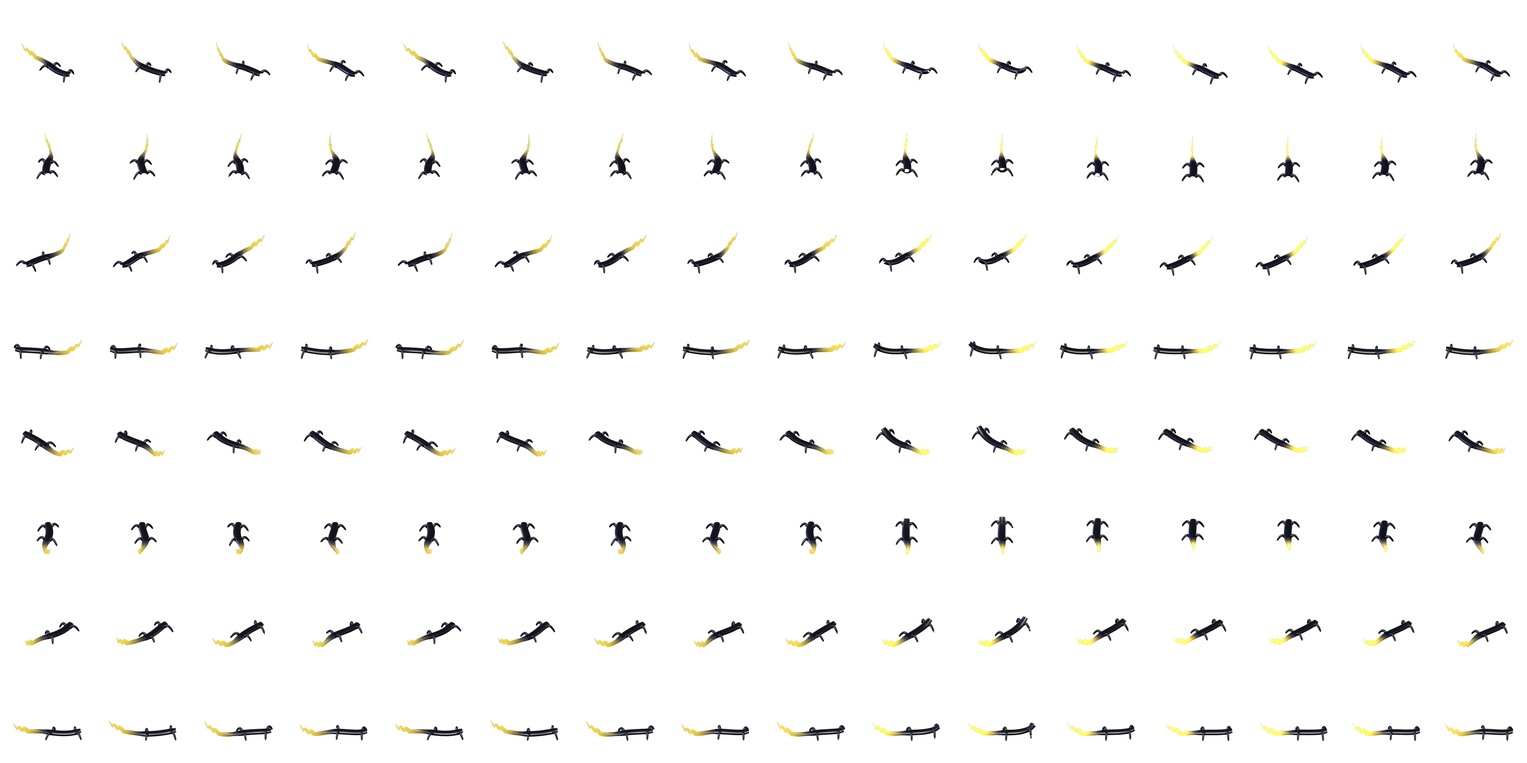
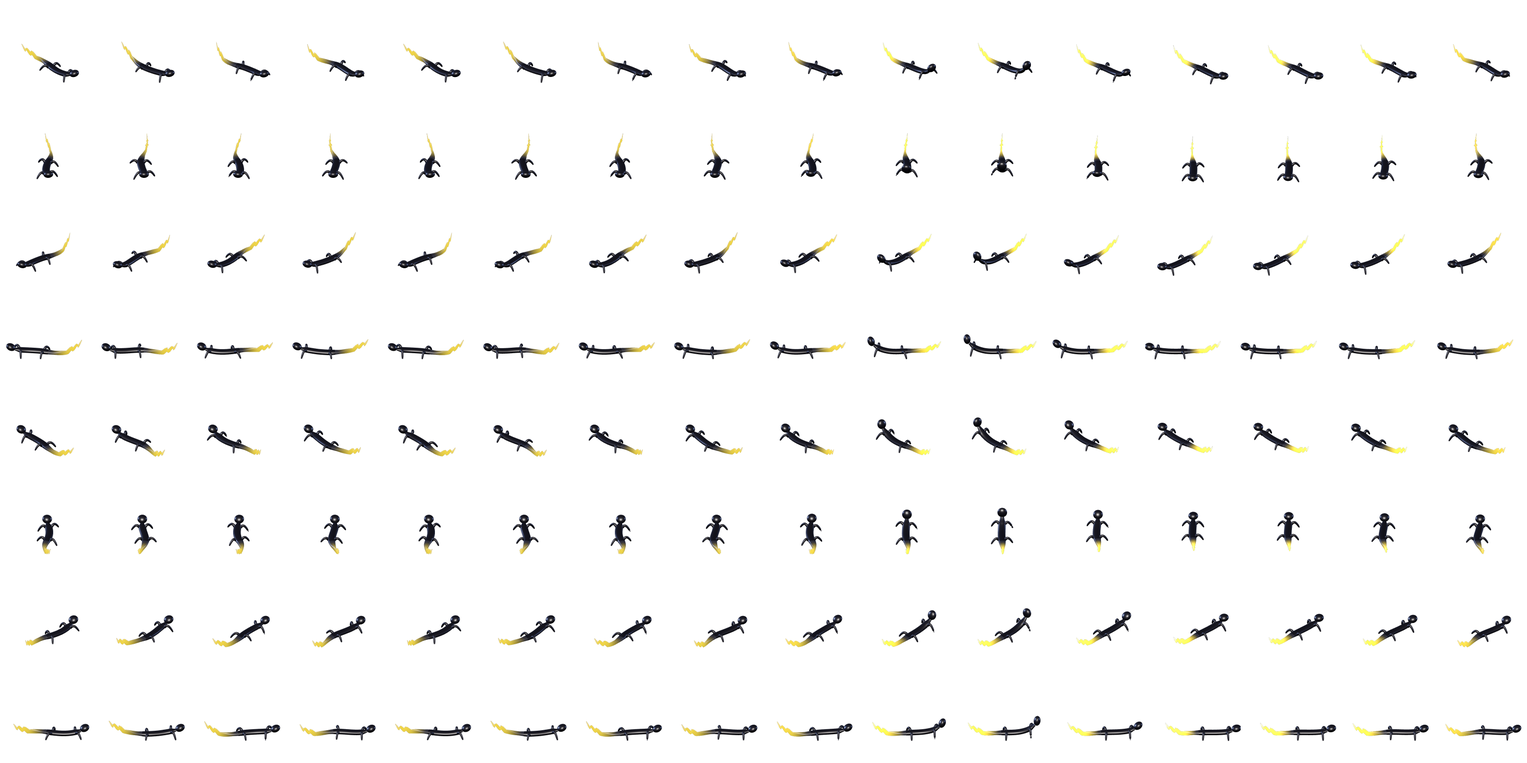
Build 2026-11-08c: the Electro Skink's head shows
The owner on build b: "He's supposed to have a small head, but it looks
like he doesn't have a head at all." A bug hid it: since build a the
slither asked the spine a little ahead of the neck, and the wave's power
of a negative number was NaN, so the head mesh was never drawn. The
spine now clamps its position first. The head is also a little rounder
and taller than the flat body, on a pinched neck and lifted slightly.
Re-baked img/evo/electroskink.png and the Bible's picture; stamped.

Claude-Session: https://claude.ai/code/session_0115DZYYhipQqSk6LHvQcEfz

diff --git a/game.html b/game.html
@@ -9,18 +9,18 @@
     <!-- THE PROPS SHEETS THE START WAITS FOR (js/init.js, docs/STARTUP.md) begin to download with the page, alongside the scripts, instead of once the world is built: measured on a slow link (2x CPU, 60 ms, 15 Mbit/s), the start is about half a second sooner (4.1 s to 3.5 s for a new player, 6.4 s to 5.9 s for a returning one).
          They are the addresses the loader asks for (img/props/<family>.png, with the build stamp), so its own requests are answered from these; the stamp changes with the build (tests/startup.js checks both).
          Not here: the player's sheet (the website's background, ?attract, draws no player), the eggs and the evolved forms (which of them the first picture draws depends on the saved game): the start asks for those itself. -->
-    <link rel="preload" as="image" href="img/props/crystalpad.png?v=2026-11-08b">
-    <link rel="preload" as="image" href="img/props/tech.png?v=2026-11-08b">
-    <link rel="preload" as="image" href="img/props/lab.png?v=2026-11-08b">
-    <link rel="preload" as="image" href="img/props/office.png?v=2026-11-08b">
-    <link rel="preload" as="image" href="img/props/lounge.png?v=2026-11-08b">
-    <link rel="preload" as="image" href="img/props/cargo.png?v=2026-11-08b">
-    <link rel="preload" as="image" href="img/props/cold.png?v=2026-11-08b">
-    <link rel="preload" as="image" href="img/props/plant.png?v=2026-11-08b">
-    <link rel="preload" as="image" href="img/props/sentry.png?v=2026-11-08b">
-    <link rel="preload" as="image" href="img/props/tank.png?v=2026-11-08b">
-    <link rel="preload" as="image" href="img/props/truck.png?v=2026-11-08b">
-    <link rel="preload" as="image" href="img/props/bridge.png?v=2026-11-08b">
+    <link rel="preload" as="image" href="img/props/crystalpad.png?v=2026-11-08c">
+    <link rel="preload" as="image" href="img/props/tech.png?v=2026-11-08c">
+    <link rel="preload" as="image" href="img/props/lab.png?v=2026-11-08c">
+    <link rel="preload" as="image" href="img/props/office.png?v=2026-11-08c">
+    <link rel="preload" as="image" href="img/props/lounge.png?v=2026-11-08c">
+    <link rel="preload" as="image" href="img/props/cargo.png?v=2026-11-08c">
+    <link rel="preload" as="image" href="img/props/cold.png?v=2026-11-08c">
+    <link rel="preload" as="image" href="img/props/plant.png?v=2026-11-08c">
+    <link rel="preload" as="image" href="img/props/sentry.png?v=2026-11-08c">
+    <link rel="preload" as="image" href="img/props/tank.png?v=2026-11-08c">
+    <link rel="preload" as="image" href="img/props/truck.png?v=2026-11-08c">
+    <link rel="preload" as="image" href="img/props/bridge.png?v=2026-11-08c">
     <style>
         body { margin: 0; background: #000; overflow: hidden; touch-action: none; font-family: 'Courier New', monospace; }
         canvas { display: block; width: 100vw; height: 100vh; height: 100dvh; touch-action: none; -webkit-user-select: none; -webkit-touch-callout: none; }
@@ -610,7 +610,7 @@
     #cardPick .cp-tile.empty.off > .cp-blank { opacity: 0.5; }
     :is(#cardPick, #cardEquip) .cp-note { font: 700 11px monospace; color: #8aa0c8; letter-spacing: 0.05em; text-align: center; padding-top: 4px; }
     @media (max-width: 700px) { #cardPick .cp-title { font-size: 18px; } #cardPick .cp-arrow { display: none; } #cardPick .cp-rail { padding: 16px 8px 8px; } }
-    /* EQUIP NOW (js/cardsui.js equipNowOpen; build 2026-11-08b): over the CARDS screen (and a pack's reveal), the followers a card fits in a row that slides, each with its slots: the card picker's box, teal */
+    /* EQUIP NOW (js/cardsui.js equipNowOpen; build 2026-11-08c): over the CARDS screen (and a pack's reveal), the followers a card fits in a row that slides, each with its slots: the card picker's box, teal */
     #cardEquip { z-index: 82; }
     #cardEquip .cp-box { box-shadow: 0 0 30px rgba(0,0,0,0.6), 0 0 18px rgba(25,230,193,0.22); } #cardEquip .cp-title { text-shadow: 0 0 12px rgba(25,230,193,0.35); }
     #cardEquip .cp-head { justify-content: flex-start; align-items: center; } #cardEquip .cp-hl { flex: 1; min-width: 0; } #cardEquip .ce-card { flex: none; scroll-snap-align: none; }
@@ -1051,7 +1051,7 @@
     :is(#squadBar, #ccSquadBox) .sb-xp u { display: block; height: 100%; width: 0; background: #9ca8ff; text-decoration: none; transition: width 0.3s; }
     :is(#squadBar, #ccSquadBox) .sb-slot.xp-gain .sb-xp u { background: #e4e8ff; box-shadow: 0 0 8px #9ca8ff; }
     :is(#squadBar, #ccSquadBox) .sb-slot.evo-soon .sb-xp u { animation: sb-evo-soon 1.2s ease-in-out infinite; } @keyframes sb-evo-soon { 50% { background: #e4e8ff; box-shadow: 0 0 8px #9ca8ff; } }
-    /* a card's ULTIMATE (js/party.js _partyUltBar; build 2026-11-08b, the owner: "more visible ultimate bar on followers and access to use them"): a meter under the XP in its element's colour, ULT and the charge in it;
+    /* a card's ULTIMATE (js/party.js _partyUltBar; build 2026-11-08c, the owner: "more visible ultimate bar on followers and access to use them"): a meter under the XP in its element's colour, ULT and the charge in it;
        full, gold, glowing and pulsing, ULTIMATE ▲ and TAP: a tap on it fires the Ultimate (js/elements.js followerUltFire) */
     :is(#squadBar, #ccSquadBox) .sb-ult { position: relative; display: block; box-sizing: border-box; width: 100%; height: 8px; margin: 2px 0 0; padding: 0; border: 0; background: rgba(255,255,255,0.12); cursor: default; font: inherit; color: inherit; }
     :is(#squadBar, #ccSquadBox) .sb-ult[hidden] { display: none; }
@@ -1188,7 +1188,7 @@
     #ccRoot.carousel .cf-none { display: none; flex: 1; align-items: center; justify-content: center; text-align: center; font: 800 13px/1.5 monospace; letter-spacing: 0.06em; color: #8aa0c8; }
     #ccRoot.carousel .cf-card.none .cf-art, #ccRoot.carousel .cf-card.none .cf-txt { display: none; } #ccRoot.carousel .cf-card.none .cf-none { display: flex; }
     /* its settings, beside it */
-    #ccRoot.carousel .cc-side { width: auto; min-height: 0; padding: 0 4px 14px 0; gap: 6px; background: none; border: 0; box-shadow: none; clip-path: none; -webkit-mask-image: linear-gradient(180deg, #000 calc(100% - 14px), transparent); mask-image: linear-gradient(180deg, #000 calc(100% - 14px), transparent); }   /* (a long list of traits fades out at the foot: it scrolls. The settings are slimmer since build 2026-11-08b: every follower has an ATTACK setting now, and the five settings and RE-ROLL · INFO · EXILE still stand in view at 1024 × 768) */
+    #ccRoot.carousel .cc-side { width: auto; min-height: 0; padding: 0 4px 14px 0; gap: 6px; background: none; border: 0; box-shadow: none; clip-path: none; -webkit-mask-image: linear-gradient(180deg, #000 calc(100% - 14px), transparent); mask-image: linear-gradient(180deg, #000 calc(100% - 14px), transparent); }   /* (a long list of traits fades out at the foot: it scrolls. The settings are slimmer since build 2026-11-08c: every follower has an ATTACK setting now, and the five settings and RE-ROLL · INFO · EXILE still stand in view at 1024 × 768) */
     #ccRoot.carousel .cc-dd { display: grid; grid-template-columns: minmax(0, 1fr) auto; grid-template-areas: "k a" "v a"; align-items: center; row-gap: 4px; position: relative; isolation: isolate; flex: none; min-height: 44px; padding: 0 16px; border: 0; background: none; box-shadow: none; text-shadow: 0 1px 6px rgba(0,0,0,0.7); }
     #ccRoot.carousel .cc-dd::before { content: ""; position: absolute; inset: 0; z-index: -1; transform: skewX(-9deg); background: linear-gradient(180deg, #101a36, #05070f); border: 2px solid var(--c); box-shadow: 0 0 12px -2px var(--c), inset 0 0 14px rgba(0,0,0,0.5); }
     #ccRoot.carousel .cc-dd.open { background: none; box-shadow: none; } #ccRoot.carousel .cc-dd.open::before { background: color-mix(in srgb, var(--c) 20%, #05070f); }
@@ -2006,12 +2006,12 @@ function _showError(msg) {
 // Script files that failed to download. A missing file raises no error of its
 // own — only the "Can't find variable" from whatever needed it — so the load
 // failure is caught here, on its way down (capture phase).
-// THE BUILD. Every script URL below carries ?v=2026-11-08b, so a new deploy
+// THE BUILD. Every script URL below carries ?v=2026-11-08c, so a new deploy
 // fetches a matching set: REPORTED, an iPad ran the new js/indexart.js against
 // an old cached js/config.js ("Attempted to assign to readonly property").
 // Change this, the ?v= on every script tag and BUILD_VERSION in js/config.js
 // together (tests/boot.js checks they agree).
-window.__PAGE_BUILD = "2026-11-08b";
+window.__PAGE_BUILD = "2026-11-08c";
 window.__bootFailed = [];
 window.addEventListener("error", function (e) {
     var t = e && e.target;
@@ -2047,92 +2047,92 @@ if (!CanvasRenderingContext2D.prototype.roundRect) {
 </script>
 
 <!-- Game scripts — load order matters (globals first, logic last) -->
-<script src="js/config.js?v=2026-11-08b"></script>
-<script src="js/icons.js?v=2026-11-08b"></script>
-<script src="js/uikit.js?v=2026-11-08b"></script>
-<script src="js/traits.js?v=2026-11-08b"></script>
-<script src="js/elements.js?v=2026-11-08b"></script>
-<script src="js/damage.js?v=2026-11-08b"></script>
-<script src="js/combat.js?v=2026-11-08b"></script>
-<script src="js/species.js?v=2026-11-08b"></script>
-<script src="js/levels.js?v=2026-11-08b"></script>
-<script src="js/status.js?v=2026-11-08b"></script>
-<script src="js/helpers.js?v=2026-11-08b"></script>
-<script src="js/predator.js?v=2026-11-08b"></script>
-<script src="js/abilities.js?v=2026-11-08b"></script>
-<script src="js/commands.js?v=2026-11-08b"></script>
-<script src="js/npc.js?v=2026-11-08b"></script>
-<script src="js/draw.js?v=2026-11-08b"></script>
-<script src="js/beetle3d.js?v=2026-11-08b"></script>
-<script src="js/bugs3d.js?v=2026-11-08b"></script>
-<script src="js/settings.js?v=2026-11-08b"></script>
-<script src="js/alarm.js?v=2026-11-08b"></script>
-<script src="js/drops.js?v=2026-11-08b"></script>
-<script src="js/clone.js?v=2026-11-08b"></script>
-<script src="js/bonds.js?v=2026-11-08b"></script>
-<script src="js/evolution.js?v=2026-11-08b"></script>
-<script src="js/cards.js?v=2026-11-08b"></script>
-<script src="js/cardart.js?v=2026-11-08b"></script>
-<script src="js/hdsprites.js?v=2026-11-08b"></script>
-<script src="js/firebombs.js?v=2026-11-08b"></script>
-<script src="js/moves.js?v=2026-11-08b"></script>
-<script src="js/hudgems.js?v=2026-11-08b"></script>
-<script src="js/commandcenter.js?v=2026-11-08b"></script>
-<script src="js/cardsui.js?v=2026-11-08b"></script>
-<script src="js/unitinfo.js?v=2026-11-08b"></script>
-<script src="js/infodex.js?v=2026-11-08b"></script>
-<script src="js/classes.js?v=2026-11-08b"></script>
-<script src="js/playergear.js?v=2026-11-08b"></script>
-<script src="js/inventory.js?v=2026-11-08b"></script>
-<script src="js/weapons.js?v=2026-11-08b"></script>
-<script src="js/mutator.js?v=2026-11-08b"></script>
-<script src="js/specimen.js?v=2026-11-08b"></script>
-<script src="js/serum.js?v=2026-11-08b"></script>
-<script src="js/potion.js?v=2026-11-08b"></script>
-<script src="js/technomancer.js?v=2026-11-08b"></script>
-<script src="js/playercards.js?v=2026-11-08b"></script>
-<script src="js/stations.js?v=2026-11-08b"></script>
-<script src="js/facilityportals.js?v=2026-11-08b"></script>
-<script src="js/tutorial.js?v=2026-11-08b"></script>
-<script src="js/dialogue.js?v=2026-11-08b"></script>
-<script src="js/questbox.js?v=2026-11-08b"></script>
-<script src="js/facilitymap.js?v=2026-11-08b"></script>
-<script src="js/facilitygrow.js?v=2026-11-08b"></script>
-<script src="js/facility.js?v=2026-11-08b"></script>
-<script src="js/attract.js?v=2026-11-08b"></script>
-<script src="js/facilitysave.js?v=2026-11-08b"></script>
-<script src="js/facilityplay.js?v=2026-11-08b"></script>
-<script src="js/facilitydecor.js?v=2026-11-08b"></script>
-<script src="js/propatlas.js?v=2026-11-08b"></script>
-<script src="js/propsprites.js?v=2026-11-08b"></script>
-<script src="js/facilitystyle.js?v=2026-11-08b"></script>
-<script src="js/facilitystyleall.js?v=2026-11-08b"></script>
-<script src="js/facilitysewers.js?v=2026-11-08b"></script>
-<script src="js/facilitynet.js?v=2026-11-08b"></script>
-<script src="js/population.js?v=2026-11-08b"></script>
-<script src="js/facilityspawn.js?v=2026-11-08b"></script>
-<script src="js/crystalpower.js?v=2026-11-08b"></script>
-<script src="js/antraids.js?v=2026-11-08b"></script>
-<script src="js/followerspots.js?v=2026-11-08b"></script>
-<script src="js/breeding.js?v=2026-11-08b"></script>
-<script src="js/party.js?v=2026-11-08b"></script>
-<script src="js/squadfly.js?v=2026-11-08b"></script>
-<script src="js/techabilities.js?v=2026-11-08b"></script>
-<script src="js/fluxmove.js?v=2026-11-08b"></script>
-<script src="js/fluxlab.js?v=2026-11-08b"></script>
-<script src="js/puzzles.js?v=2026-11-08b"></script>
-<script src="js/quests.js?v=2026-11-08b"></script>
-<script src="js/bosses.js?v=2026-11-08b"></script>
-<script src="js/nestconsole.js?v=2026-11-08b"></script>
-<script src="js/sidequest.js?v=2026-11-08b"></script>
-<script src="js/facilitytutorial.js?v=2026-11-08b"></script>
-<script src="js/gunfire.js?v=2026-11-08b"></script>
-<script src="js/targeting.js?v=2026-11-08b"></script>
-<script src="js/toolbox.js?v=2026-11-08b"></script>
-<script src="js/mixtool.js?v=2026-11-08b"></script>
-<script src="js/radialmenu.js?v=2026-11-08b"></script>
-<script src="js/input.js?v=2026-11-08b"></script>
-<script src="js/game.js?v=2026-11-08b"></script>
+<script src="js/config.js?v=2026-11-08c"></script>
+<script src="js/icons.js?v=2026-11-08c"></script>
+<script src="js/uikit.js?v=2026-11-08c"></script>
+<script src="js/traits.js?v=2026-11-08c"></script>
+<script src="js/elements.js?v=2026-11-08c"></script>
+<script src="js/damage.js?v=2026-11-08c"></script>
+<script src="js/combat.js?v=2026-11-08c"></script>
+<script src="js/species.js?v=2026-11-08c"></script>
+<script src="js/levels.js?v=2026-11-08c"></script>
+<script src="js/status.js?v=2026-11-08c"></script>
+<script src="js/helpers.js?v=2026-11-08c"></script>
+<script src="js/predator.js?v=2026-11-08c"></script>
+<script src="js/abilities.js?v=2026-11-08c"></script>
+<script src="js/commands.js?v=2026-11-08c"></script>
+<script src="js/npc.js?v=2026-11-08c"></script>
+<script src="js/draw.js?v=2026-11-08c"></script>
+<script src="js/beetle3d.js?v=2026-11-08c"></script>
+<script src="js/bugs3d.js?v=2026-11-08c"></script>
+<script src="js/settings.js?v=2026-11-08c"></script>
+<script src="js/alarm.js?v=2026-11-08c"></script>
+<script src="js/drops.js?v=2026-11-08c"></script>
+<script src="js/clone.js?v=2026-11-08c"></script>
+<script src="js/bonds.js?v=2026-11-08c"></script>
+<script src="js/evolution.js?v=2026-11-08c"></script>
+<script src="js/cards.js?v=2026-11-08c"></script>
+<script src="js/cardart.js?v=2026-11-08c"></script>
+<script src="js/hdsprites.js?v=2026-11-08c"></script>
+<script src="js/firebombs.js?v=2026-11-08c"></script>
+<script src="js/moves.js?v=2026-11-08c"></script>
+<script src="js/hudgems.js?v=2026-11-08c"></script>
+<script src="js/commandcenter.js?v=2026-11-08c"></script>
+<script src="js/cardsui.js?v=2026-11-08c"></script>
+<script src="js/unitinfo.js?v=2026-11-08c"></script>
+<script src="js/infodex.js?v=2026-11-08c"></script>
+<script src="js/classes.js?v=2026-11-08c"></script>
+<script src="js/playergear.js?v=2026-11-08c"></script>
+<script src="js/inventory.js?v=2026-11-08c"></script>
+<script src="js/weapons.js?v=2026-11-08c"></script>
+<script src="js/mutator.js?v=2026-11-08c"></script>
+<script src="js/specimen.js?v=2026-11-08c"></script>
+<script src="js/serum.js?v=2026-11-08c"></script>
+<script src="js/potion.js?v=2026-11-08c"></script>
+<script src="js/technomancer.js?v=2026-11-08c"></script>
+<script src="js/playercards.js?v=2026-11-08c"></script>
+<script src="js/stations.js?v=2026-11-08c"></script>
+<script src="js/facilityportals.js?v=2026-11-08c"></script>
+<script src="js/tutorial.js?v=2026-11-08c"></script>
+<script src="js/dialogue.js?v=2026-11-08c"></script>
+<script src="js/questbox.js?v=2026-11-08c"></script>
+<script src="js/facilitymap.js?v=2026-11-08c"></script>
+<script src="js/facilitygrow.js?v=2026-11-08c"></script>
+<script src="js/facility.js?v=2026-11-08c"></script>
+<script src="js/attract.js?v=2026-11-08c"></script>
+<script src="js/facilitysave.js?v=2026-11-08c"></script>
+<script src="js/facilityplay.js?v=2026-11-08c"></script>
+<script src="js/facilitydecor.js?v=2026-11-08c"></script>
+<script src="js/propatlas.js?v=2026-11-08c"></script>
+<script src="js/propsprites.js?v=2026-11-08c"></script>
+<script src="js/facilitystyle.js?v=2026-11-08c"></script>
+<script src="js/facilitystyleall.js?v=2026-11-08c"></script>
+<script src="js/facilitysewers.js?v=2026-11-08c"></script>
+<script src="js/facilitynet.js?v=2026-11-08c"></script>
+<script src="js/population.js?v=2026-11-08c"></script>
+<script src="js/facilityspawn.js?v=2026-11-08c"></script>
+<script src="js/crystalpower.js?v=2026-11-08c"></script>
+<script src="js/antraids.js?v=2026-11-08c"></script>
+<script src="js/followerspots.js?v=2026-11-08c"></script>
+<script src="js/breeding.js?v=2026-11-08c"></script>
+<script src="js/party.js?v=2026-11-08c"></script>
+<script src="js/squadfly.js?v=2026-11-08c"></script>
+<script src="js/techabilities.js?v=2026-11-08c"></script>
+<script src="js/fluxmove.js?v=2026-11-08c"></script>
+<script src="js/fluxlab.js?v=2026-11-08c"></script>
+<script src="js/puzzles.js?v=2026-11-08c"></script>
+<script src="js/quests.js?v=2026-11-08c"></script>
+<script src="js/bosses.js?v=2026-11-08c"></script>
+<script src="js/nestconsole.js?v=2026-11-08c"></script>
+<script src="js/sidequest.js?v=2026-11-08c"></script>
+<script src="js/facilitytutorial.js?v=2026-11-08c"></script>
+<script src="js/gunfire.js?v=2026-11-08c"></script>
+<script src="js/targeting.js?v=2026-11-08c"></script>
+<script src="js/toolbox.js?v=2026-11-08c"></script>
+<script src="js/mixtool.js?v=2026-11-08c"></script>
+<script src="js/radialmenu.js?v=2026-11-08c"></script>
+<script src="js/input.js?v=2026-11-08c"></script>
+<script src="js/game.js?v=2026-11-08c"></script>
 <script>
 // ── BOOT CHECK ────────────────────────────────────────────
 // Every file above must have arrived and run before init.js starts the game.
@@ -2187,7 +2187,7 @@ if (!CanvasRenderingContext2D.prototype.roundRect) {
     document.body.appendChild(d);
 })();
 </script>
-<script src="js/init.js?v=2026-11-08b"></script>
+<script src="js/init.js?v=2026-11-08c"></script>
 
 </body>
 </html>

diff --git a/design/evolutions/forms36.js b/design/evolutions/forms36.js
@@ -6,7 +6,8 @@
 // on No. 903 (a flat bolt stuck on the tail's end): "The tail should gradually change colors at the end and have that electric lightning bolt definition. It shouldn't look
 // like a number one fan hand sign" (docs/CONVERSION.md §13). So:
 //   BODY   long, skinny and flattened, low to the floor, wet black and plain;
-//   HEAD   just a rounded-off end: no face, no eyes;
+//   HEAD   small and rounded, no face, no eyes; on a pinched neck, rounder and taller than the flat body and lifted a little, so it reads as a head (the owner on
+//          build 2026-11-08b: "He's supposed to have a small head, but it looks like he doesn't have a head at all");
 //   LEGS   four, each a single arch out of its side and down to the floor;
 //   TAIL   long and tapering; toward its end it fades from the black of the body into a glowing electric yellow, and its last stretch IS the lightning bolt: the tail
 //          itself zig-zags in sharp jogs to a point, upright, its tip the brightest.
@@ -66,7 +67,7 @@ function _electroSkink(o) {
   const P = V(0, 0, 0), Pa = V(0, 0, 0), Pb = V(0, 0, 0), fw = V(0, 0, 0), ax = V(0, 0, 0), ay = V(0, 0, 0), up = V(0, 1, 0), m4 = new T.Matrix4(), d = V(0, 0, 0);
   let ph = 0, rear = 0, strike = 0, calm = 1;
   const spine = (s, out) => {
-    curve.getPoint(Math.min(1, Math.max(0, s)), out);
+    s = Math.min(1, Math.max(0, s)); curve.getPoint(s, out);   // (clamped first: the frame at the neck asks a little ahead of it, and a power of a negative s is NaN, which hid the head in build 2026-11-08a)
     out.x += o.swimAmp * (0.22 + 0.78 * Math.pow(s, 1.15)) * Math.sin(2 * ph - TAU * o.swimWaves * s) * calm;   // (the eel's wave: small at the head, wide at the tail, two strokes a loop)
     const front = Math.max(0, 1 - s / o.rearReach); out.y += o.rearH * rear * front * front;
     return out;
@@ -104,10 +105,11 @@ function _electroSkink(o) {
 const _sk0 = {
   S: 0.85, coreY: 0.09, shiftZ: 0.2,
   spine: [[0.36, 0.112], [0.25, 0.086], [0.1, 0.072], [-0.08, 0.07], [-0.24, 0.07], [-0.42, 0.066], [-0.6, 0.072], [-0.78, 0.098]],
-  rNeck: 0.05, rBody: 0.065, rTip: 0.01, sTrunk: 0.12, sHip: 0.47, flat: 0.6,
+  rNeck: 0.034, rBody: 0.065, rTip: 0.01, sTrunk: 0.13,   // (a pinched neck, so the head reads: the owner, 2026-11-08, "He's supposed to have a small head, but it looks like he doesn't have a head at all")
+  sHip: 0.47, flat: 0.6,
   legs: [{ s: 0.115, fwd: 0.04 }, { s: 0.47, fwd: -0.03 }], legR0: 0.025, legR1: 0.015, reach: 0.13, arch: 0.045,
   stride: 0.035, lift: 0.028, rearLift: 0.05,
-  headW: 0.15, headH: 0.078, headL: 0.17, headFwd: 0.055, headUp: 0.004, headTilt: 0.1,
+  headW: 0.165, headH: 0.115, headL: 0.165, headFwd: 0.075, headUp: 0.028, headTilt: 0.18,   // (small, but rounder and taller than the flat body, lifted a little: it was 0.15 × 0.078 × 0.17, level with the body)
   sCut: 0.55, sBolt: 0.8, colStart: 0.57, colFull: 0.88, boltFx: 0.55, boltFy: 1.5,
   zig: [[0, 0], [0.3, 0.078], [0.38, 0.026], [0.66, 0.112], [0.74, 0.056], [1, 0.17]],   // (the bolt: (along its stretch, height): up, a sharp jog back down, up, a jog, up to the point)
   swimAmp: 0.075, swimWaves: 1.1, rearH: 0.12, rearReach: 0.42, lunge: 0.11,

diff --git a/bible.html b/bible.html
@@ -3568,7 +3568,7 @@
   </div></details>
 
   <h3 id="tech-build">The build stamp and the address flags</h3>
-  <p>The build is <code><span class="n" data-k="BUILD_VERSION">2026-11-08b</span></code> (a date and a letter). <code>BUILD_VERSION</code>, the page's <code>window.__PAGE_BUILD</code> and the <code>?v=</code> on every script tag must be the same string, and every sprite sheet's address carries <code>?v=</code> and the build too (props, the player and egg, the forms and their ground layers), so a new deploy fetches a matching set. The three are changed together; <code>tests/boot.js</code> checks that they agree.</p>
+  <p>The build is <code><span class="n" data-k="BUILD_VERSION">2026-11-08c</span></code> (a date and a letter). <code>BUILD_VERSION</code>, the page's <code>window.__PAGE_BUILD</code> and the <code>?v=</code> on every script tag must be the same string, and every sprite sheet's address carries <code>?v=</code> and the build too (props, the player and egg, the forms and their ground layers), so a new deploy fetches a matching set. The three are changed together; <code>tests/boot.js</code> checks that they agree.</p>
   <ul>
     <li><b>Address flags</b>: <code>?attract</code> (the website's background, below); <code>?power=on</code> (every room lit); <code>?class=&lt;id&gt;</code> (start as a class, for development). NEW GAME strips the stale <code>classic</code> and <code>facilityplay</code> flags.</li>
     <li><b>The inspection map</b> (the dock's MAP): an isometric overlay of the authored map with its own camera (drag to pan, wheel or pinch to zoom, FIT, +, −) that draws each room's outline, name and level, and ✕ CLOSE (<a href="#world-map">part 03</a>).</li>
@@ -3789,7 +3789,7 @@
   </main>
 </div>
 
-<footer>Conduit · the game bible · written against build 2026-11-08b (8 November 2026) · <a href="index.html">Dragonlord</a> · <a href="game.html">play Conduit</a> · the build reports this page was written from are in the repository's <code>docs/</code></footer>
+<footer>Conduit · the game bible · written against build 2026-11-08c (8 November 2026) · <a href="index.html">Dragonlord</a> · <a href="game.html">play Conduit</a> · the build reports this page was written from are in the repository's <code>docs/</code></footer>
 
 <script>
 // each number read from the code says where it comes from; the contents light the part in view; on a narrow screen the contents start folded

diff --git a/js/config.js b/js/config.js
@@ -6,7 +6,7 @@
 
 // The build this file belongs to — the same as window.__PAGE_BUILD and the
 // ?v= on every script tag in game.html (the boot check compares them).
-const BUILD_VERSION = "2026-11-08b";
+const BUILD_VERSION = "2026-11-08c";
 
 // ── GLOBAL ERROR DISPLAY ──────────────────────────────────
 // Lives in game.html (_showError), before any file loads. This file used to

diff --git a/docs/CHANGELOG.md b/docs/CHANGELOG.md
@@ -4,6 +4,8 @@ What changed, build by build, newest first. Each entry names its commit (`git lo
 
 ## 2026-11-08
 
+- **c · The Electro Skink's head shows.** Owner (2026-11-08): "He's supposed to have a small head, but it looks like he doesn't have a head at all." A bug hid it: since build a its slither asked the spine a little ahead of the neck, and the wave's power of a negative number was NaN, so the head was never drawn (`design/evolutions/forms36.js` spine, clamped now). The head is also a little rounder and taller than the flat body, on a pinched neck and lifted slightly, so it reads small but clear. Re-baked; the Bible's picture with it. Branch `claude/start-game-project-HSh7Z`. Not playtested.
+
 - **b · The Electro Skink darker and bigger.** Owner (2026-11-08): "Can you make him darker and bigger?" Its skin is near black with only a little wet sheen (it read slate grey), and it is 1.4 × as big: baked in a 192 px cell at the same pixels a unit as the other forms (`EVOLUTIONS.electroskink.cell`; the roster's and the radial's thumbnails now read each form's own cell). Its tail's glow and bolt are as they were. Branch `claude/start-game-project-HSh7Z`. Not playtested.
 
 - **a · The ELECTRO SKINK is the electric brawler; the Static Orb set aside.** Owner (2026-11-07/08): the whiteboard sketch is "the new electric brawler", the Static Orb "will now be the magnetic one, but if you just wanna throw him to the side for now"; reviewed through models Nos. 900-904 ("Okay, that's good. Send it."); its name "Electro Skink"; "BASH for now"; "it's really fast", "maybe he moves like a fish, like a slippery eel, but also legs". Branch `claude/start-game-project-HSh7Z`.
